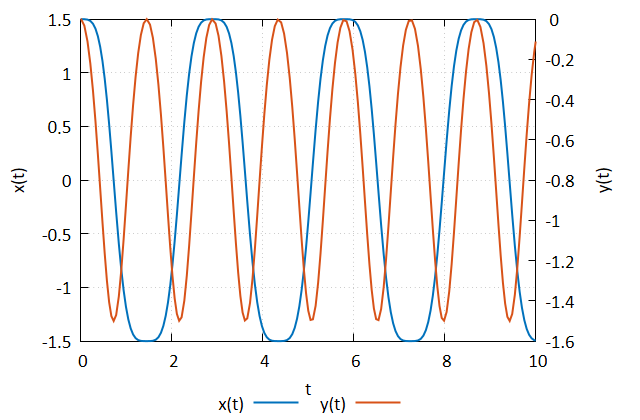
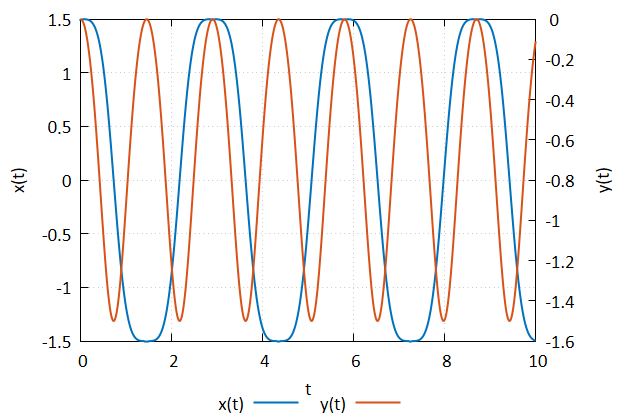
Update example

diff --git a/README.md b/README.md
@@ -446,13 +446,19 @@ M = \begin{bmatrix}
 \end{bmatrix}.
 $$
 
-The zero in the final diagonal entry is what distinguishes this problem from an ordinary differential equation.  The multiplier has no time derivative of its own, so $M$ is singular and the last row represents an algebraic relationship rather than a differential one.  Differentiating the constraint twice with respect to time and substituting the equations of motion supplies that relationship explicitly,
+The zero in the final diagonal entry is what distinguishes this problem from an ordinary differential equation.  The multiplier has no time derivative of its own, so $M$ is singular and the last row states an algebraic relationship rather than a differential one.  That relationship comes from the constraint itself.  As written, the constraint involves only position, so it must be differentiated twice with respect to time before the multiplier appears in it.  Substituting the equations of motion into the result gives
 
 $$
-\lambda = \frac{m \left( g y - v_x^2 - v_y^2 \right)}{2 L^2}.
+0 = 2 \lambda \left( x^2 + y^2 \right) + m \left( v_x^2 + v_y^2 - g y \right),
 $$
 
-The model routine evaluates this expression directly, and the initial conditions must be chosen such that they satisfy the constraint.
+which is the fifth equation of the system.  Because
+
+$$
+\frac{\partial}{\partial \lambda} \left[ 2 \lambda \left( x^2 + y^2 \right) + m \left( v_x^2 + v_y^2 - g y \right) \right] = 2 \left( x^2 + y^2 \right) = 2 L^2 \neq 0,
+$$
+
+this equation determines $\lambda$, and the problem is therefore of index 1.  The multiplier is not computed by the model.  It is carried as a state and the solver determines it, along with the four differential states, from the coupled system.  Two consequences are worth noting.  The initial conditions must be consistent, meaning they must satisfy both the constraint and the algebraic equation, and because the constraint has been differentiated the position constraint is only enforced to within the accuracy of the integration.  A slow drift in $x^2 + y^2 - L^2$ is expected over a long enough integration.
 
 The model parameters are passed to the solver by means of the optional `args` argument.  A derived type is used to carry both quantities.
 ```fortran
@@ -462,7 +468,7 @@ type cartesian_pendulum_properties
 end type
 ```
 
-The routine defining the equations of motion computes the multiplier from the index-reduced constraint, and then returns the derivatives of each state.  Notice, the fifth equation contributes no dynamics as the multiplier is an algebraic quantity.
+The routine defining the system returns the four derivatives followed by the residual of the algebraic equation.  Notice that $\lambda$, carried as `x(5)`, is used rather than computed.
 ```fortran
 subroutine cartesian_pendulum(t, x, dxdt, args)
     ! Arguments
@@ -473,7 +479,7 @@ subroutine cartesian_pendulum(t, x, dxdt, args)
 
     ! Local Variables
     real(real64), parameter :: gc = 9.81d0
-    real(real64) :: m_ax, m_ay, lambda, m, L
+    real(real64) :: m, L
 
     ! Model Parameters
     select type (args)
@@ -482,22 +488,23 @@ subroutine cartesian_pendulum(t, x, dxdt, args)
         m = args%mass
     end select
 
-    ! Constraint Equation:
-    ! x**2 + y**2 = L**2
+    ! The state vector is [x, dx/dt, y, dy/dt, lambda], where lambda is the
+    ! Lagrange multiplier enforcing the constraint equation
+    ! x**2 + y**2 = L**2.  The constraint force acts along the rod, and is
+    ! given by lambda times the gradient of the constraint equation.
     !
-    ! Need to differentiate twice
-    lambda = (m * (gc * x(3) - x(2)**2 - x(4)**2) / (2.0d0 * L**2))
-
-    ! Compute the inertial forces in the x and y directions
-    m_ax = 2.0d0 * lambda * x(1)
-    m_ay = 2.0d0 * lambda * x(3) - m * gc
-
-    ! Output
+    ! The constraint is differentiated twice with respect to time to reduce
+    ! the system to index 1, which supplies the fifth equation below.  Notice,
+    ! lambda is not computed here.  The fifth equation is written as a
+    ! residual that the solver drives to zero, and the corresponding row of
+    ! the mass matrix is zero.  It is that zero row which makes the system a
+    ! DAE rather than an ODE.
     dxdt(1) = x(2)
-    dxdt(2) = m_ax
+    dxdt(2) = 2.0d0 * x(5) * x(1)
     dxdt(3) = x(4)
-    dxdt(4) = m_ay
-    dxdt(5) = 0.0d0
+    dxdt(4) = 2.0d0 * x(5) * x(3) - m * gc
+    dxdt(5) = 2.0d0 * x(5) * (x(1)**2 + x(3)**2) + &
+        m * (x(2)**2 + x(4)**2 - gc * x(3))
 end subroutine
 ```
 
@@ -529,7 +536,7 @@ subroutine cartesian_pendulum_mass_matrix(t, x, m, args)
 end subroutine
 ```
 
-The mass matrix is supplied to the `ode_container` alongside the routine defining the equations of motion.  The pendulum is released from rest in a horizontal position at $x = L$, $y = 0$, which satisfies the constraint.
+The mass matrix is supplied to the `ode_container` alongside the routine defining the system.  The pendulum is released from rest in a horizontal position at $x = L$, $y = 0$.  These conditions are consistent, as they satisfy the constraint, and with the bob at rest at $y = 0$ the algebraic equation reduces to $2 \lambda L^2 = 0$, so the multiplier begins at zero.
 ```fortran
 program example
     use iso_fortran_env
